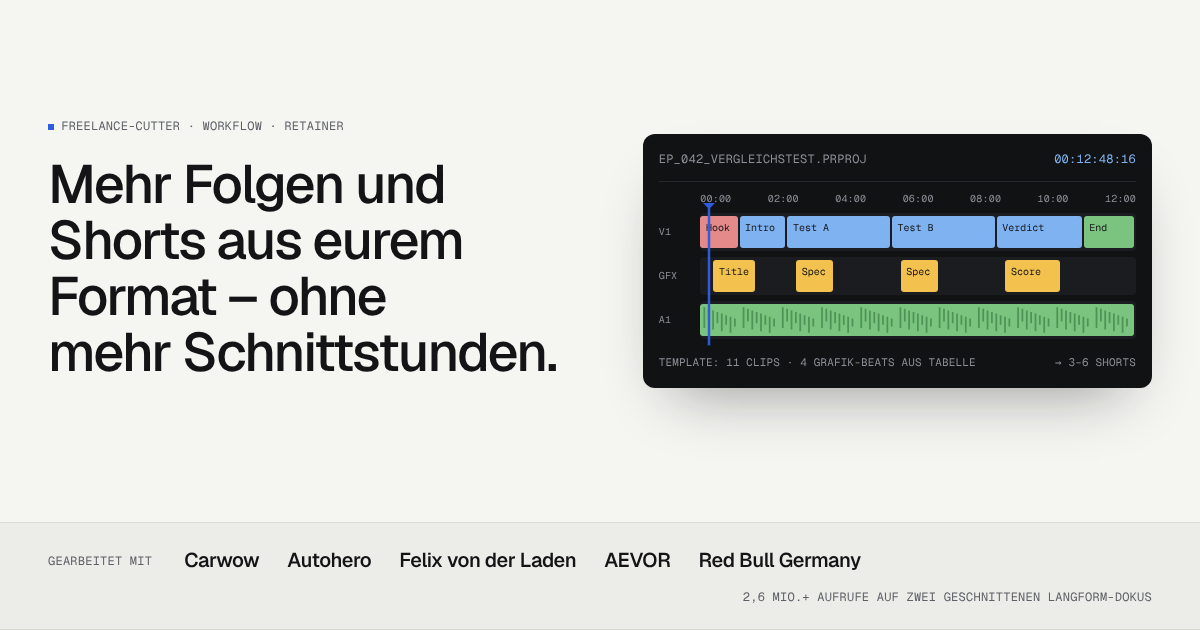
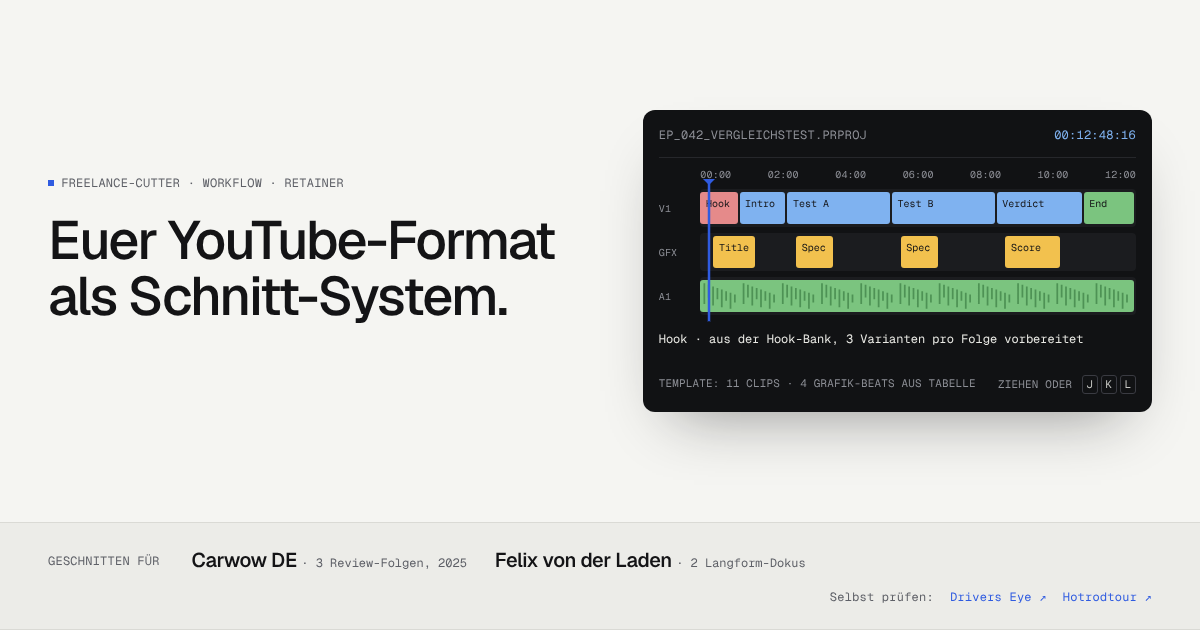
Trust pass: remove unverifiable claims, add checkable proof
- formatschnitt: proof strip lists only verified editing work (Carwow DE,
  Felix von der Laden) with links to the public videos; hero states the
  offer instead of a promise; candid 'how many formats' FAQ; demo labelled
  as fictional sample data; calculator assumption marked unproven and
  defaulted to 20%; direct-contact and fixed-price guarantees by the form
- micharoessler.com: concrete kit (A7S III, A7 IV), 'check the views
  yourself' YouTube links on docs, plain explanation of the US LLC

Claude-Session: https://claude.ai/code/session_01VAitEweH86j9YnxhYm6MG2

diff --git a/micharoessler-websites/sites/systems/src/data/content.ts b/micharoessler-websites/sites/systems/src/data/content.ts
@@ -142,8 +142,8 @@ export const proof: { title: L; tag: L; text: L; named?: boolean }[] = [
 		title: { de: 'D2C-Produktmarke – modulare Ad-Library', en: 'D2C product brand – modular ad library' },
 		tag: { de: 'Dreh + Schnitt · 2026', en: 'Shoot + edit · 2026' },
 		text: {
-			de: 'Ein Drehtag, geplant als Baukasten: Hook-Bank, Vorher/Nachher mit identischem Framing und Installations-Clips für 50+ Ads, 4 YouTube-Anleitungen und ein Founder-Q&A.',
-			en: 'One shoot day planned as a kit: hook bank, before/after with matched framing and installation clips for 50+ ads, 4 YouTube how-tos and a founder Q&A.',
+			de: 'Dreh geplant als Baukasten: Hook-Bank, Vorher/Nachher mit identischem Framing, Installations-Clips. Ziel des Kunden: Material für 50+ Ads, 4 YouTube-Anleitungen und ein Founder-Q&A aus einem Dreh.',
+			en: 'Shoot planned as a kit: hook bank, before/after with matched framing, installation clips. The client’s goal: material for 50+ ads, 4 YouTube how-tos and a founder Q&A from one shoot.',
 		},
 	},
 	{
@@ -197,6 +197,13 @@ export const tools: { name: string; text: L }[] = [
 ];
 
 export const faq: { q: L; a: L }[] = [
+	{
+		q: { de: 'Wie viele Formate hast du schon systematisiert?', en: 'How many formats have you systemised so far?' },
+		a: {
+			de: 'Ehrliche Antwort: wenige. Ich habe Auto-Review-Folgen im bestehenden Carwow-Format geschnitten, einen Podcast-Workflow in DaVinci aufgesetzt und einen Produkt-Dreh als Ad-Baukasten geplant und geschnitten. Meine eigenen Produktionen laufen seit Jahren auf Templates und selbst gebauten Tools. Genau deshalb biete ich den Pilot zum Festpreis an: Ihr seht das Ergebnis, bevor ihr euch bindet.',
+			en: 'Honest answer: a few. I edited car-review episodes inside the existing Carwow format, set up a DaVinci podcast workflow and planned and edited a product shoot as an ad kit. My own productions have run on templates and self-built tools for years. That is exactly why I offer the fixed-price pilot: you see the result before you commit.',
+		},
+	},
 	{
 		q: { de: 'Ersetzt ihr unseren Editor durch KI?', en: 'Are you replacing our editor with AI?' },
 		a: {
